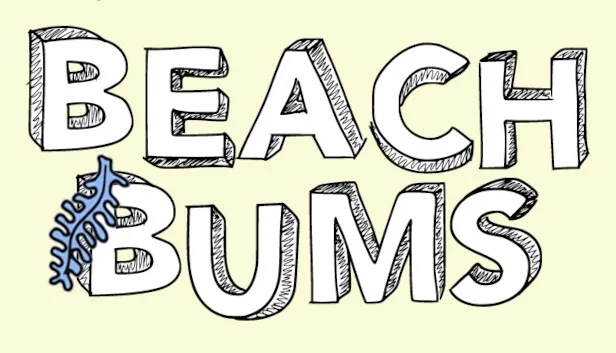
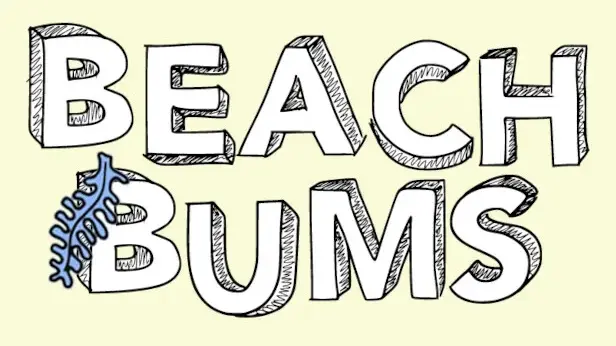
Data Entry

diff --git a/src/data/experience.ts b/src/data/experience.ts
@@ -55,10 +55,7 @@ export const experience = {
 					},
 				},
 			],
-			highlights: [
-				'Grew our first title to 25,500+ Google Play downloads and delivered 15 updates since the 2023 demo launch.',
-				'Worked across design, C# gameplay and tools, shaders, debugging, mobile porting, store publishing, marketing, conventions, and interviews.',
-			],
+			highlights: ['Grew our first title to 25,500+ Google Play downloads and delivered 15 updates since the 2023 demo launch.'],
 			tools: ['Unity', 'C#', 'Steam', 'Google Play', 'App Store', 'Shaders', 'Tooling'],
 		},
 		{
@@ -85,12 +82,12 @@ export const experience = {
 			sortDate: '2026-03-01',
 			context: 'Client and studio projects',
 			summary:
-				'Delivered production systems, client applications, and VR training experiences before moving into a Technical Director role supporting project delivery.',
+				'Worked across original IP including Dungeons and Dining Tables, client projects such as Think Digital VR training experiences, and the Firebase-authenticated Disney Game Night mobile app. Contributed beyond development through publisher pitching, school-based game development teaching, and team training sessions.',
 			recognition: [
 				{
 					name: 'Most Impactful Studio of 2025',
 					awardedFrom: 'SA Game Industry Awards (SAGIA)',
-					detail: 'Inaugural South Australian Game Industry Awards',
+					detail: 'South Australian Game Industry Awards',
 					year: '2025',
 					emblem: {
 						src: '/assets/images/company-catalyst-games.webp',
@@ -98,12 +95,7 @@ export const experience = {
 					},
 				},
 			],
-			highlights: [
-				'Developed a SAGE vertical slice within my first month as the studio transitioned to a new project.',
-				'Introduced scene management, asynchronous loading, Addressables, a UI framework, and a decoration system.',
-				'Delivered a Firebase-authenticated mobile app and multiple VR training experiences for clients.',
-				'Quoted and oversaw client projects, pitched opportunities to publishers, taught game development in schools, and presented in weekly show-and-tell sessions.',
-			],
+			highlights: ['Dungeons and Dining Tables released as a playable demo on Steam.', 'Disney Game Night App released on mobile.'],
 			tools: ['Unity', 'C#', 'Addressables', 'Firebase', 'VR', 'Teaching', 'Technical Direction'],
 		},
 		{
@@ -111,23 +103,24 @@ export const experience = {
 			role: 'Presenter',
 			company: 'SciWorld',
 			companyId: 'sciworld',
-			dateLabel: '2026',
-			cardDateLabel: '2026',
-			sortDate: '2026-01-01',
+			pictures: [
+				{
+					src: '/assets/images/experience-sciworld-starlab.webp',
+					alt: 'SciWorld Starlab inflatable planetarium set up inside a room.',
+				},
+			],
+			dateLabel: 'Apr 2026 - Present',
+			cardDateLabel: '2026 - Present',
+			sortDate: '2026-04-01',
 			context: 'Science outreach and STEM education',
 			summary:
-				'Presented interactive science programs for SciWorld, supporting STEM outreach for schools, parties, and public events across South Australia.',
-			highlights: [
-				'Presented science demonstrations and interactive explanations for school, party, and public event audiences.',
-				'Supported mobile outreach delivery through program setup, pack-down, and venue-ready preparation.',
-				'Adapted audience-facing explanations to help science concepts feel clear, engaging, and hands-on.',
-				'Followed safe presentation practices while supporting demonstrations, workshops, and science communication activities.',
-			],
+				'Recently joined the team at SciWorld, supporting STEM outreach for schools, parties, and public events across South Australia.',
+			highlights: [],
 			tools: ['Science Communication', 'STEM Education', 'Presenting', 'Audience Engagement', 'Safety', 'Workshop Support'],
 		},
 		{
 			id: 'global-game-jam-super-raccoon',
-			role: 'Game Jam Participant',
+			role: 'Programmer',
 			company: 'Global Game Jam',
 			companyId: 'global-game-jam',
 			pictures: [
@@ -140,14 +133,8 @@ export const experience = {
 			cardDateLabel: '2026',
 			sortDate: '2026-01-31',
 			context: 'Super Raccoon team project',
-			summary:
-				'Joined a Global Game Jam team as a programmer on Super Raccoon, a released Unity puzzle game about helping office worker Ricky Raccoon escape without being spotted.',
-			highlights: [
-				'Credited as a programmer on the released Super Raccoon game jam project.',
-				'Built gameplay in Unity as part of a small team working to a short jam timeline.',
-				'Helped deliver an HTML5 browser build and downloadable PC build for the itch.io release.',
-				'Worked within a shared codebase that was published publicly on GitHub.',
-			],
+			summary: 'Joined a Global Game Jam team as a programmer to release Super Raccoon, a Unity puzzle game.',
+			highlights: [],
 			tools: ['Unity', 'C#', 'Game Jam', 'Puzzle Game', 'HTML5', 'PC'],
 		},
 		{
@@ -157,12 +144,8 @@ export const experience = {
 			companyId: 'coastal-derrieres',
 			pictures: [
 				{
-					src: '/assets/images/project-beach-bums.webp',
-					alt: 'Steam header art for Beach Bums.',
-				},
-				{
 					src: '/assets/images/project-beach-bums-capsule.webp',
-					alt: 'Steam capsule art for Beach Bums.',
+					alt: 'Beach Bums title art.',
 				},
 			],
 			dateLabel: 'Jun 2024 - Oct 2024',
@@ -170,18 +153,13 @@ export const experience = {
 			sortDate: '2024-10-01',
 			context: 'Contract vertical slice',
 			summary:
-				'Worked with Coastal Derrieres to turn the Beach Bums design document into a playable vertical slice for funding opportunities.',
-			highlights: [
-				'Provided senior Unity development support inside a small multidisciplinary team of four.',
-				'Translated the design into a practical production plan and helped keep the scope achievable.',
-				'Integrated FMOD into Unity to support the project audio requirements.',
-				'Helped adapt art assets for game use and built an intuitive level editor for the design workflow.',
-			],
+				'Worked with Coastal Derrieres in a small team of four to turn the Beach Bums design document into a playable vertical slice for funding opportunities.',
+			highlights: ['Vertical slice exhibited at events such as SAGE and AVcon.'],
 			tools: ['Unity', 'C#', 'FMOD', 'Level Editor', 'Vertical Slice', 'Production Planning'],
 		},
 		{
 			id: 'solo-dev',
-			role: 'Solo Dev',
+			role: 'Solo Developer',
 			company: 'Self-Employed',
 			companyId: 'solo',
 			pictures: [
@@ -216,12 +194,7 @@ export const experience = {
 			context: 'Mathematics tutoring',
 			summary:
 				'Taught mathematics to high school students from years 8 to 12, adapting explanations to different confidence levels and learning styles.',
-			highlights: [
-				'Supported students across year 8 to year 12 mathematics.',
-				'Built clear communication habits by breaking complex topics into approachable steps.',
-				"Adapted lessons to each student's goals, pace, and curriculum needs.",
-				'Developed mentoring skills that continue to support teaching, teamwork, and client communication.',
-			],
+			highlights: [],
 			tools: ['Tutoring', 'Mathematics', 'Teaching', 'Mentoring', 'Communication'],
 		},
 		{
@@ -238,15 +211,10 @@ export const experience = {
 			dateLabel: '2019',
 			cardDateLabel: '2019',
 			dateHeading: 'Degree',
-			sortDate: '2013-01-01',
+			sortDate: '2019-01-01',
 			context: 'Genetics, Microbiology and Immunology',
-			summary: 'Studied a Bachelor of Science at the University of Adelaide, focusing on genetics, microbiology, and immunology.',
-			highlights: [
-				'Built a broad scientific foundation across genetics, microbiology, and immunology.',
-				'Developed research, analysis, and evidence-based reasoning skills through university science study.',
-				'Strengthened the learning habits and curiosity that continue to support technical problem-solving.',
-				'Connected a long-running interest in science with later work in teaching, STEM outreach, and software development.',
-			],
+			summary: 'Studied a Bachelor of Science at the University of Adelaide, majoring in Genetics, Microbiology, and Immunology.',
+			highlights: [],
 			tools: ['Science', 'Genetics', 'Microbiology', 'Immunology', 'Research', 'Analysis'],
 		},
 		{
@@ -266,18 +234,27 @@ export const experience = {
 			sortDate: '2022-03-01',
 			context: 'IT customer service',
 			summary: 'Maintained high levels of customer service for high-profile clients during urgent IT support situations.',
-			highlights: [
-				'Supported urgent client-facing technical situations with calm, clear communication.',
-				'Balanced customer service expectations with practical troubleshooting and escalation.',
-				'Worked with high-profile clients where responsiveness and professionalism were essential.',
-				'Strengthened the service mindset and communication discipline I bring to software teams.',
-			],
+			highlights: [],
 			tools: ['IT Support', 'Customer Service', 'Troubleshooting', 'Client Support', 'Communication'],
 		},
 		{
 			id: 'japanese-language-student',
 			role: 'Language Student',
 			company: 'WEA / Japaneasy',
+			icon: {
+				src: '/assets/icons/experience-language-student-japan-flag.webp',
+				alt: 'Japanese flag icon for language study.',
+			},
+			pictures: [
+				{
+					src: '/assets/images/experience-language-student-wea-building.webp',
+					alt: 'WEA building entrance in Adelaide.',
+				},
+				{
+					src: '/assets/images/experience-language-student-japaneasy-group.webp',
+					alt: 'Japaneasy Japanese class group photo.',
+				},
+			],
 			dateLabel: '2014 - 2016, 2022',
 			cardDateLabel: '2014 - 2022',
 			sortDate: '2022-01-01',
@@ -318,13 +295,7 @@ export const experience = {
 					},
 				},
 			],
-			highlights: [
-				'Worked across unit parades, exercises, online and local courses, network administration, and equipment operation.',
-				'Built technical discipline through communications systems work and operational training.',
-				'Handled weapons training and worked within structured team environments.',
-				'Awarded the National Emergency Medal for Operation Bushfire Assist service at Kangaroo Island.',
-				'Served in Operation COVID-19 Assist.',
-			],
+			highlights: [],
 			tools: ['Network Administration', 'Technical Systems', 'Equipment Operation', 'Training', 'Teamwork'],
 		},
 		{
@@ -332,6 +303,12 @@ export const experience = {
 			role: 'AVCon Invader',
 			company: 'AVCon',
 			companyId: 'avcon',
+			pictures: [
+				{
+					src: '/assets/images/experience-avcon-invader.webp',
+					alt: 'AVCon Invader volunteer watching a game station at the festival.',
+				},
+			],
 			dateLabel: '2014 - 2018',
 			cardDateLabel: '2014 - 2018',
 			sortDate: '2018-07-01',
@@ -339,10 +316,6 @@ export const experience = {
 			summary:
 				'Volunteered for five years at AVCon, supporting Adelaide’s volunteer-run anime, gaming, and pop culture festival through event operations and attendee-facing support.',
 			highlights: [
-				'Supported festival operations across busy public event environments as part of the AVCon volunteer team.',
-				'Helped attendees navigate the event experience through clear communication and practical on-the-day support.',
-				'Worked within a coordinated volunteer team to keep event areas running smoothly across festival weekends.',
-				'Contributed time and energy to a not-for-profit community event built around anime, gaming, pop culture, and local fan communities.',
 			],
 			tools: ['Volunteering', 'Event Operations', 'Attendee Support', 'Teamwork', 'Communication', 'Community Events'],
 		},

diff --git a/src/utils/images.ts b/src/utils/images.ts
@@ -18,7 +18,7 @@ export const imageDimensionsBySrc = {
 	'/assets/images/company-catalyst-games.webp': { width: 182, height: 217 },
 	'/assets/images/company-coastal-derrieres.webp': { width: 128, height: 128 },
 	'/assets/images/company-daytime-devs.webp': { width: 224, height: 382 },
-	'/assets/images/company-avcon.webp': { width: 256, height: 95 },
+	'/assets/images/company-avcon.webp': { width: 256, height: 82 },
 	'/assets/images/company-global-game-jam.webp': { width: 256, height: 256 },
 	'/assets/images/company-power-net-it-solutions.webp': { width: 232, height: 256 },
 	'/assets/images/company-sciworld.webp': { width: 246, height: 238 },
@@ -28,6 +28,7 @@ export const imageDimensionsBySrc = {
 	'/assets/images/contact-mailbox-dark.webp': { width: 1390, height: 1132 },
 	'/assets/images/contact-mailbox-light.webp': { width: 1390, height: 1132 },
 	'/assets/images/experience-australian-army.webp': { width: 760, height: 478 },
+	'/assets/images/experience-avcon-invader.webp': { width: 275, height: 183 },
 	'/assets/images/experience-book.webp': { width: 760, height: 478 },
 	'/assets/images/experience-catalyst-games-sagta-award-group.webp': { width: 750, height: 422 },
 	'/assets/images/experience-catalyst-games-studio-event-group.webp': { width: 760, height: 428 },
@@ -37,11 +38,14 @@ export const imageDimensionsBySrc = {
 	'/assets/images/experience-daytime-devs-convention.webp': { width: 760, height: 428 },
 	'/assets/images/experience-daytime-devs-pax-aus-team.webp': { width: 760, height: 428 },
 	'/assets/images/experience-daytime-devs-sasa-team.webp': { width: 760, height: 428 },
+	'/assets/images/experience-language-student-japaneasy-group.webp': { width: 760, height: 428 },
+	'/assets/images/experience-language-student-wea-building.webp': { width: 760, height: 428 },
 	'/assets/images/experience-power-net-it-solutions.webp': { width: 760, height: 478 },
+	'/assets/images/experience-sciworld-starlab.webp': { width: 300, height: 169 },
 	'/assets/images/experience-solo-dev.webp': { width: 760, height: 428 },
 	'/assets/images/experience-state-level-athlete-harbour.webp': { width: 760, height: 428 },
 	'/assets/images/experience-state-level-athlete-track.webp': { width: 760, height: 428 },
-	'/assets/images/experience-university-of-adelaide.webp': { width: 760, height: 478 },
+	'/assets/images/experience-university-of-adelaide.webp': { width: 760, height: 428 },
 	'/assets/images/footer-frame-dark.webp': { width: 1983, height: 793 },
 	'/assets/images/footer-frame-light.webp': { width: 1983, height: 793 },
 	'/assets/images/footer-heart-dark.webp': { width: 136, height: 112 },
@@ -50,8 +54,7 @@ export const imageDimensionsBySrc = {
 	'/assets/images/hero-light.webp': { width: 1254, height: 1254 },
 	'/assets/images/project-7-days-to-die-mods.webp': { width: 616, height: 353 },
 	'/assets/images/project-awbw.webp': { width: 1672, height: 941 },
-	'/assets/images/project-beach-bums-capsule.webp': { width: 616, height: 353 },
-	'/assets/images/project-beach-bums.webp': { width: 460, height: 215 },
+	'/assets/images/project-beach-bums-capsule.webp': { width: 616, height: 346 },
 	'/assets/images/project-chest.webp': { width: 672, height: 602 },
 	'/assets/images/project-climbing.webp': { width: 1672, height: 941 },
 	'/assets/images/project-coop-cat-temple-escape.webp': { width: 1672, height: 941 },
@@ -81,6 +84,7 @@ export const imageDimensionsBySrc = {
 	'/assets/icons/contact-instagram.webp': { width: 279, height: 284 },
 	'/assets/icons/contact-linkedin.webp': { width: 289, height: 294 },
 	'/assets/icons/contact-youtube.webp': { width: 292, height: 198 },
+	'/assets/icons/experience-language-student-japan-flag.webp': { width: 256, height: 256 },
 } satisfies Record<string, ImageDimensions>;
 
 const getSrc = (assetOrSrc: Pick<ImageAsset, 'src'> | string) => (typeof assetOrSrc === 'string' ? assetOrSrc : assetOrSrc.src);

diff --git a/src/data/projects.ts b/src/data/projects.ts
@@ -315,7 +315,7 @@ export const projects = {
 					alt: 'Pixel art creature habitat reused as a third gallery test image.',
 				},
 			],
-			description: 'A cozy life sim about running a little shop, making friends, and helping a town full of quirky characters.',
+			description: 'A strategy auto-battler set in and around Uncle Pete’s wildlife sanctuary. Collect, merge, and battle with real native animals, complete wildlife missions at real locations, and learn about each species’ habitats, diets, and unique traits.',
 			tools: ['Life Sim', 'Cozy', 'Management'],
 			projectTags: {
 				format: ['Game'],
@@ -358,12 +358,8 @@ export const projects = {
 			product: 'Beach Bums',
 			pictures: [
 				{
-					src: '/assets/images/project-beach-bums.webp',
-					alt: 'Steam header art for Beach Bums.',
-				},
-				{
 					src: '/assets/images/project-beach-bums-capsule.webp',
-					alt: 'Steam capsule art for Beach Bums.',
+					alt: 'Beach Bums title art.',
 				},
 			],
 			description:

diff --git a/src/data/experienceShowcase.ts b/src/data/experienceShowcase.ts
@@ -2,6 +2,7 @@ import type { Company, ExperienceItem, ImageAsset } from './types';
 
 export type ExperienceShowcaseItem = {
 	item: ExperienceItem;
+	company: Company | undefined;
 	icon: ImageAsset | undefined;
 	pictures: ImageAsset[];
 	media: ImageAsset | undefined;
@@ -21,11 +22,13 @@ export const getExperienceShowcaseItems = ({ items, companies }: ExperienceShowc
 	return [...items]
 		.sort((itemA, itemB) => itemB.sortDate.localeCompare(itemA.sortDate))
 		.map((item) => {
-			const icon = item.companyId ? companyById.get(item.companyId)?.icon : undefined;
+			const company = item.companyId ? companyById.get(item.companyId) : undefined;
+			const icon = item.icon ?? company?.icon;
 			const pictures = item.pictures ?? [];
 
 			return {
 				item,
+				company,
 				icon,
 				pictures,
 				media: pictures[0] ?? icon,

diff --git a/src/data/companies.ts b/src/data/companies.ts
@@ -4,6 +4,7 @@ export const companies = [
 	{
 		id: 'daytime-devs',
 		name: 'Daytime Devs',
+		website: 'https://www.daytimedevs.com/',
 		icon: {
 			src: '/assets/images/company-daytime-devs.webp',
 			alt: 'Pixel art sun and code mark for Daytime Devs.',
@@ -30,7 +31,7 @@ export const companies = [
 		name: 'Global Game Jam',
 		icon: {
 			src: '/assets/images/company-global-game-jam.webp',
-			alt: 'Super Raccoon mascot crop used for Global Game Jam project attribution.',
+			alt: 'Global Game Jam round logo.',
 		},
 	},
 	{

diff --git a/src/data/types.ts b/src/data/types.ts
@@ -21,6 +21,7 @@ export type ExperienceItem = {
 	cardRole?: string;
 	company: string;
 	companyId?: Company['id'];
+	icon?: ImageAsset;
 	pictures?: ImageAsset[];
 	dateLabel: string;
 	cardDateLabel: string;
@@ -74,6 +75,7 @@ export type Company = {
 	id: CompanyId;
 	name: string;
 	icon: ImageAsset;
+	website?: string;
 };
 
 export type ProjectReleaseStage = 'dev' | 'released' | 'shelved' | 'contributed';
